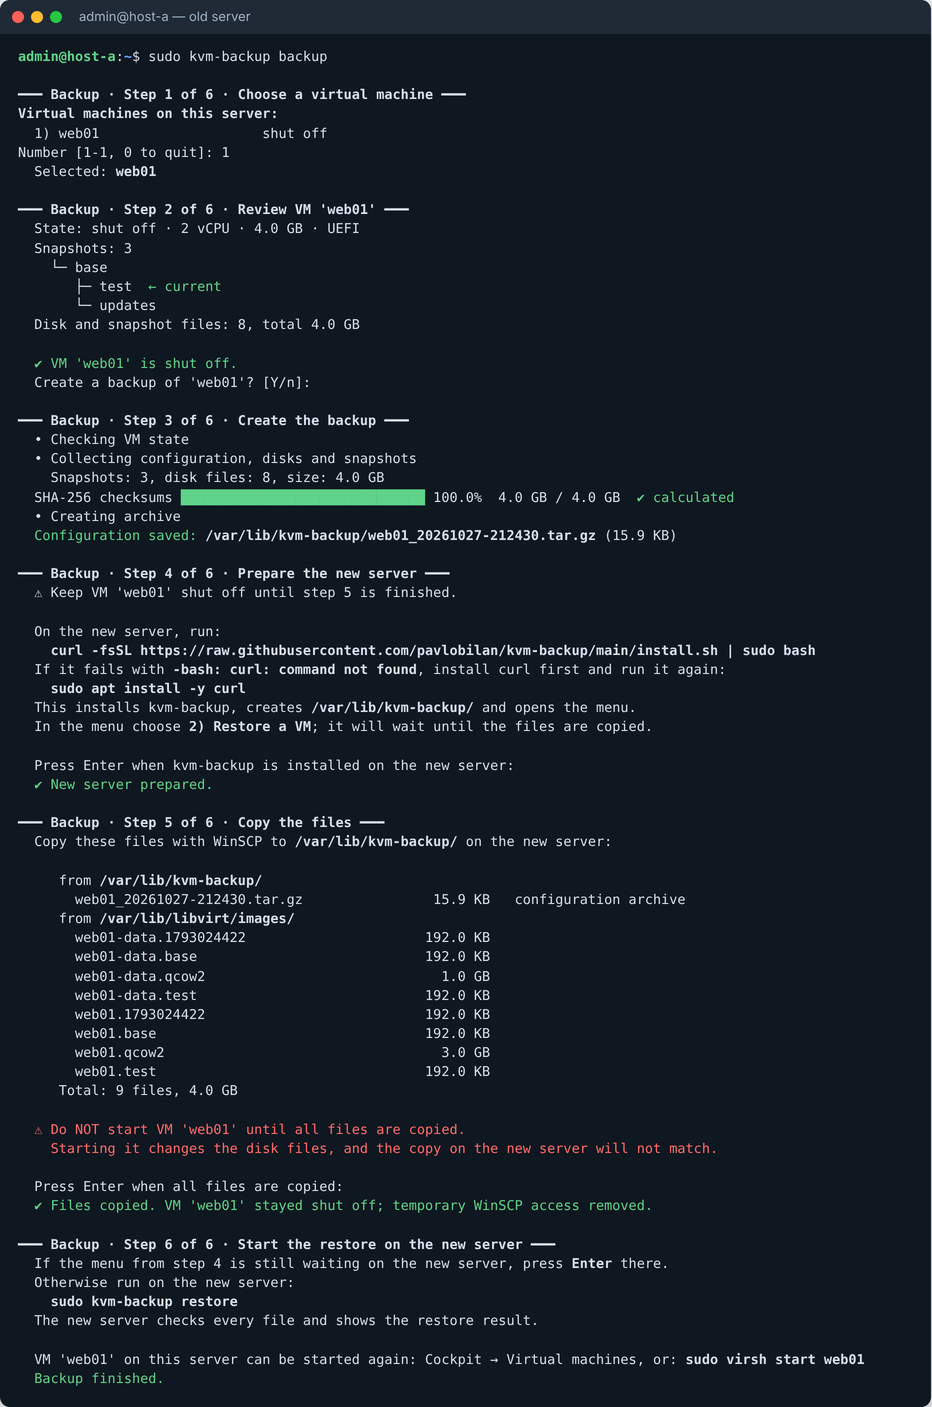
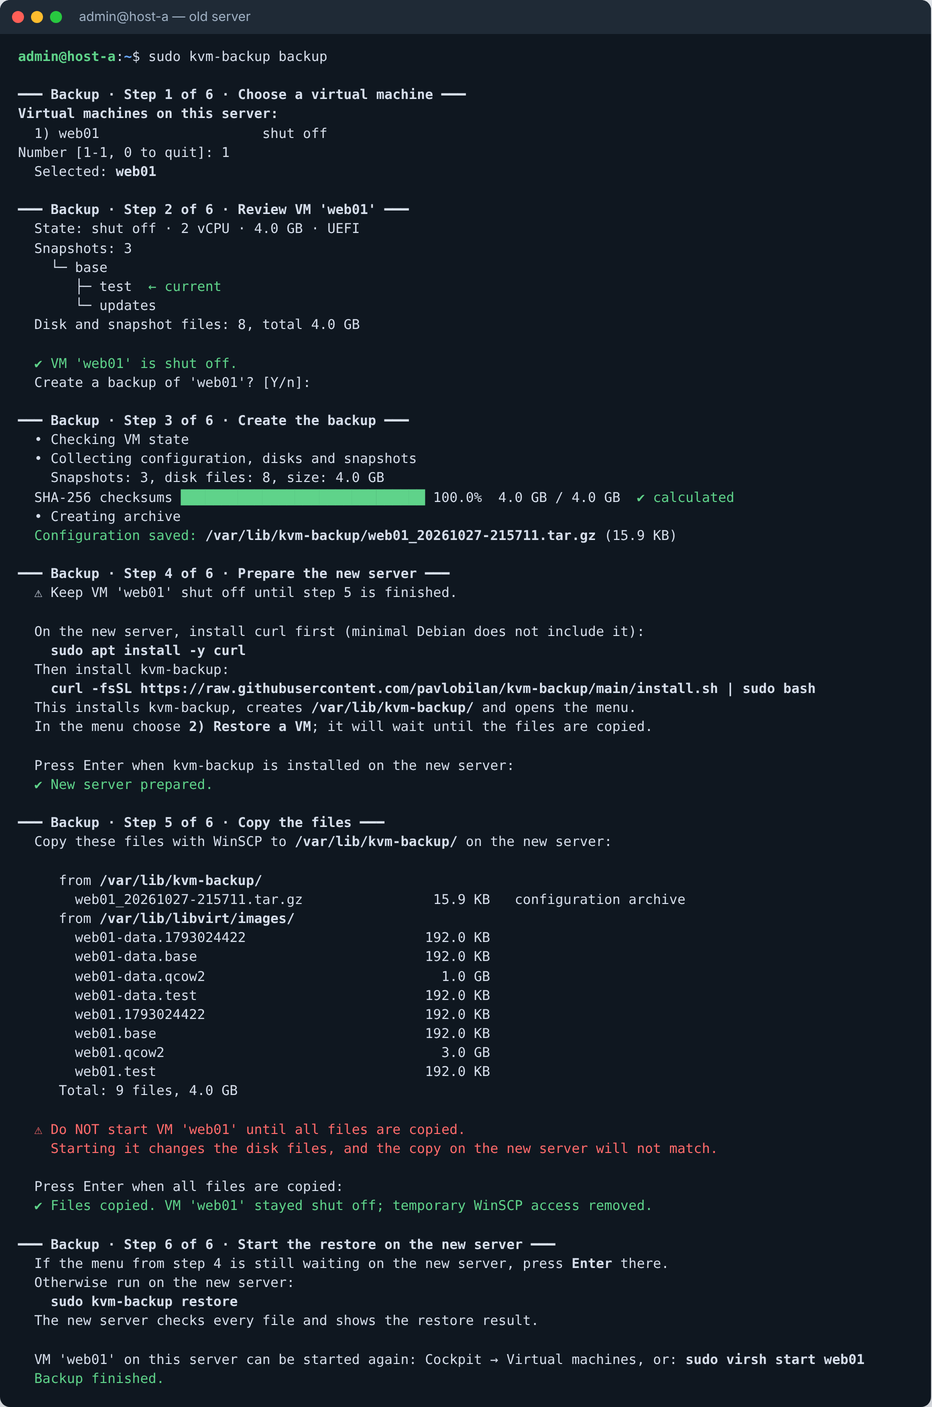
Backup step 4: install curl first, then kvm-backup
Claude-Session: https://claude.ai/code/session_01B6oZBxwDXgi735Z33Mo7zh

Changed region(s): [[0.0311, 0.4279, 0.8712, 0.489]]

diff --git a/kvmbackup/cli.py b/kvmbackup/cli.py
@@ -303,10 +303,10 @@ def cmd_backup(vm, assume_yes, checksums):
         print("  and run there:")
         print(f"    {bold(install)}")
     else:
-        print("  On the new server, run:")
-        print(f"    {bold(install)}")
-        print(f"  If it fails with {bold('-bash: curl: command not found')}, install curl first and run it again:")
+        print("  On the new server, install curl first (minimal Debian does not include it):")
         print(f"    {bold('sudo apt install -y curl')}")
+        print("  Then install kvm-backup:")
+        print(f"    {bold(install)}")
     print(f"  This installs kvm-backup, creates {bold(dest + '/')} and opens the menu.")
     print(f"  In the menu choose {bold('2) Restore a VM')}; it will wait until the files are copied.")
     print()

diff --git a/README.md b/README.md
@@ -44,7 +44,7 @@ Each step shows its result; the next one starts after you confirm with Enter.
 1. **Choose a virtual machine.**
 2. **Review the VM** (state, snapshot tree, disk files). A running VM is never shut down by the tool: it asks you to shut it down and checks again.
 3. **Create the backup.** A SHA-256 checksum of every disk and snapshot file is calculated, and the configuration is saved to a single archive: `/var/lib/kvm-backup/<VM>_<date>.tar.gz`.
-4. **Prepare the new server.** The tool prints the install command to run there (and `sudo apt install -y curl` in case `curl` is missing).
+4. **Prepare the new server.** The tool prints the commands to run there: first `sudo apt install -y curl`, then the kvm-backup install command.
 5. **Copy the files.** The tool lists every file with its source directory and the target directory on the new server (`/var/lib/kvm-backup/`). Copy them with WinSCP while the VM stays shut off; after Enter, temporary read access is removed and the tool reports whether the VM stayed off.
 6. **Start the restore on the new server.**
 
